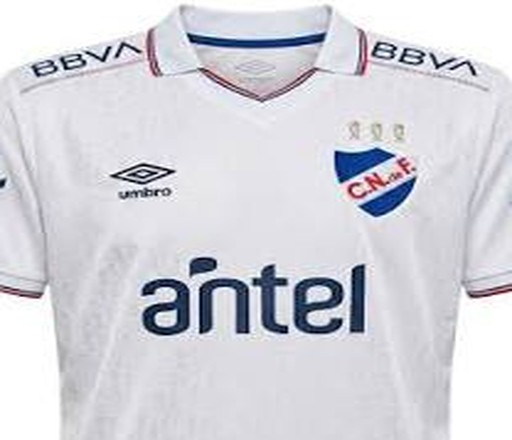
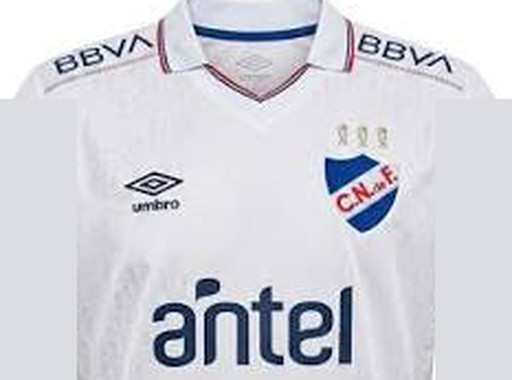
Ottati: frente y espalda de la remera recortados como las otras (512x380, cuello arriba y el pecho)
Claude-Session: https://claude.ai/code/session_017Naghp5zRz9zM9bG8a4dHp

diff --git a/herramientas/ottati.py b/herramientas/ottati.py
@@ -29,10 +29,15 @@ def tela(w, h):
     return Image.fromarray(base.clip(0, 255).astype(np.uint8))
 
 tela(256, 256).save('assets/ropa/ottati_tela.jpg', quality=90)
-# Del cuello a la cintura y de hombro a hombro, estirada a todo el torso (512x440).
+# Como las otras remeras (512x380): del cuello hasta abajo del logo, de lado a lado del pecho.
+# Lo que asoma de las mangas (el logo de Turil y las rayitas) se tapa con tela blanca.
 for lado_remera, nombre in (('frente', 'frente'), ('atras', 'espalda')):
     foto = Image.open(f'assets/especiales/remeraottati{lado_remera}.jpeg').convert('RGB')
-    foto.crop((120, 56, 328, 283)).resize((512, 440), Image.LANCZOS).save(f'assets/ropa/ottati_{nombre}.jpg', quality=90)
+    pecho = foto.crop((108, 62, 341, 235))
+    d = ImageDraw.Draw(pecho)
+    for x0, x1 in ((0, 34), (198, 233)):
+        d.rectangle((x0, 45, x1, 173), fill=pecho.getpixel((116, 150)))
+    pecho.resize((512, 380), Image.LANCZOS).save(f'assets/ropa/ottati_{nombre}.jpg', quality=90)
 # Manga: el pedazo de la manga derecha de la foto (con el logo y las rayitas del puño).
 foto = Image.open('assets/especiales/remeraottatifrente.jpeg').convert('RGB')
 foto.crop((98, 112, 142, 200)).resize((128, 256), Image.LANCZOS).save('assets/ropa/ottati_manga.jpg', quality=90)
